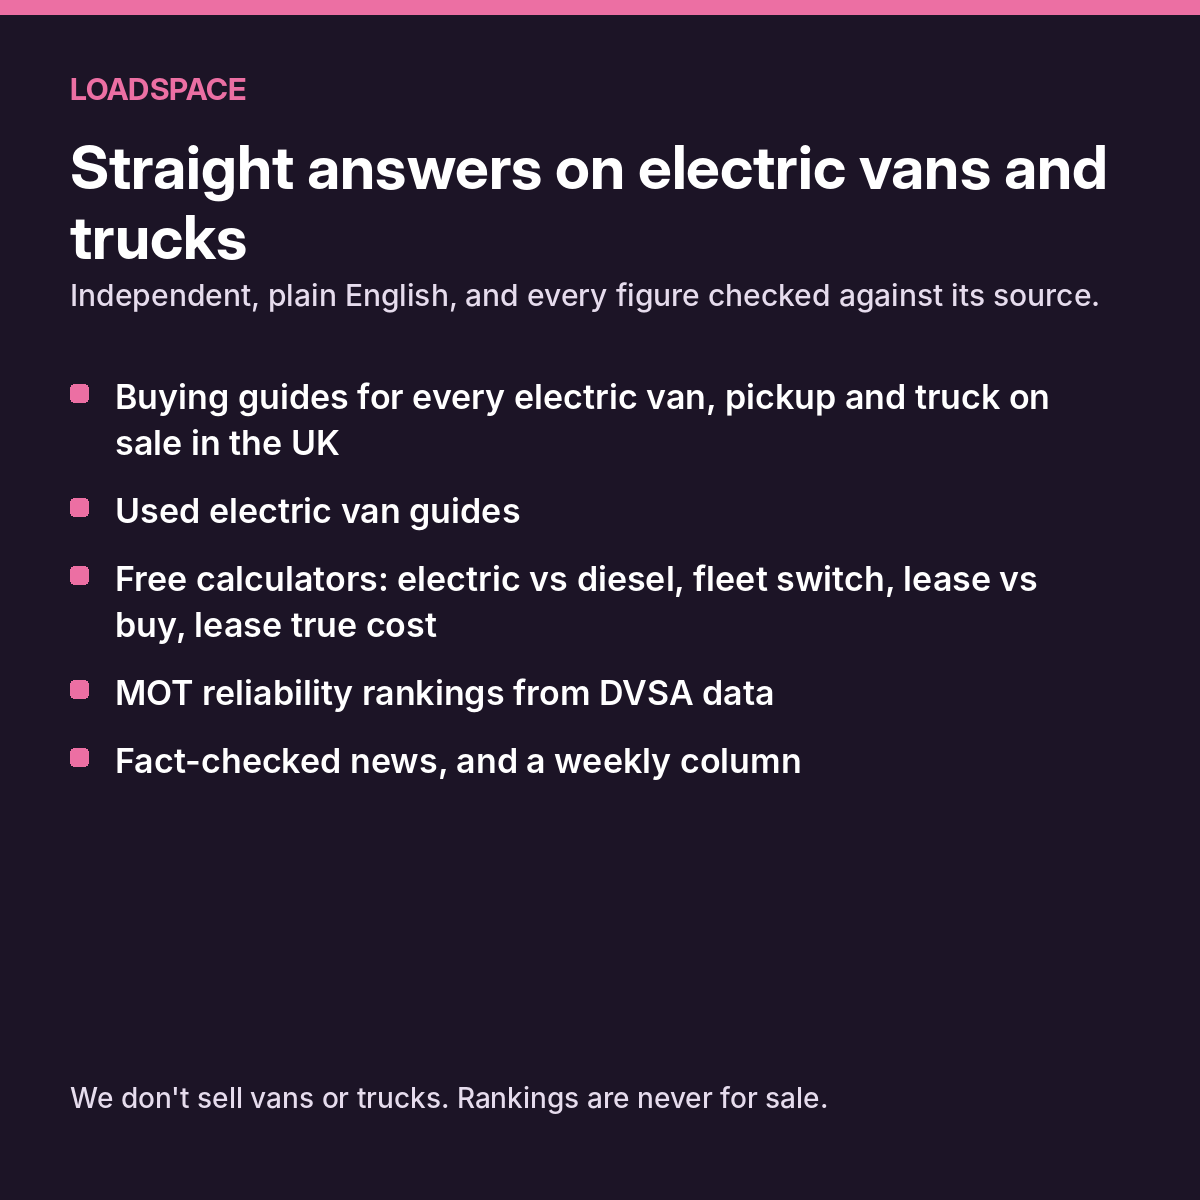
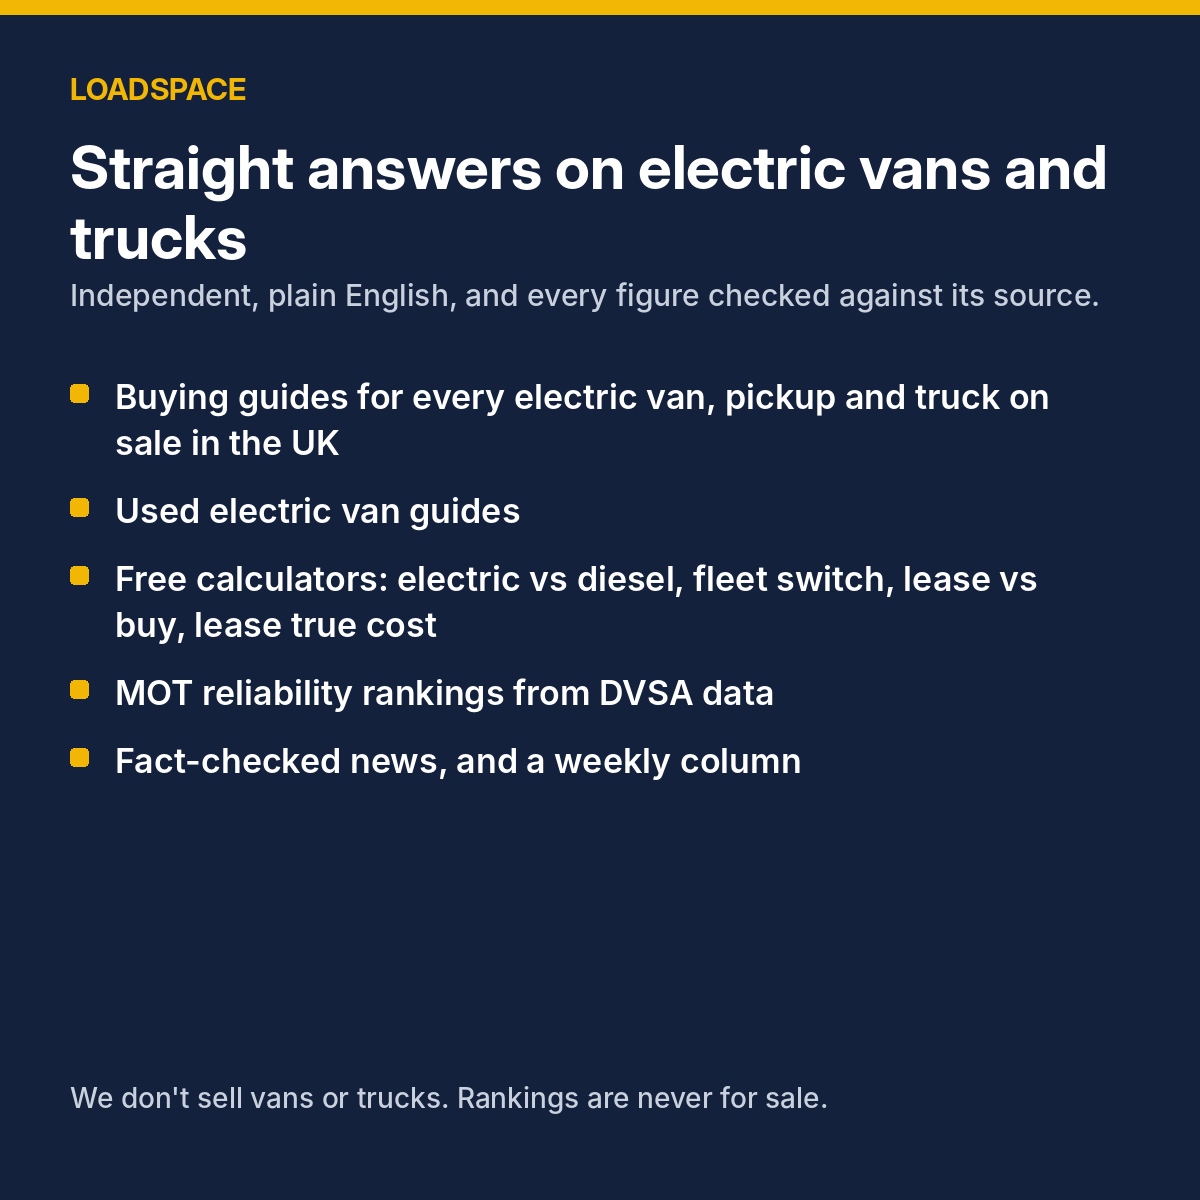
Back to navy and amber with soft grey page headers (light band, dark text)
Claude-Session: https://claude.ai/code/session_01Y739fKfVCrU5qPWWHgayZV

diff --git a/src/styles/global.css b/src/styles/global.css
@@ -1,44 +1,44 @@
 :root {
-  --ink: #1c1426;
-  --text: #241d2c;
-  --muted: #61566c;
+  --ink: #14213d;
+  --text: #1f2933;
+  --muted: #5b6573;
   --bg: #ffffff;
-  --surface: #f7f4f8;
-  --line: #e7e1ea;
-  --accent: #ec6fa3;
-  --accent-ink: #1c1426;
-  --accent-text: #b8326c;
-  --link: #b8326c;
+  --surface: #f5f6f8;
+  --line: #e1e4e8;
+  --accent: #f2b705;
+  --accent-ink: #14213d;
+  --accent-text: #946c00;
+  --link: #1a56b0;
   --good: #1f7a4d;
-  --warn-bg: #fff0f6;
-  --warn-line: #f5b8d2;
-  --hero: #1c1426;
-  --hero-glow: #3a2350;
-  --hero-text: #e6dced;
-  --hero-muted: #b9a9c9;
+  --warn-bg: #fff4d6;
+  --warn-line: #e8c55a;
+  --hero: #14213d;
+  --hero-glow: #1f3563;
+  --hero-text: #dfe3ea;
+  --hero-muted: #aab5c6;
   --radius: 10px;
   --max: 1200px;
   --display: 'Inter Display', system-ui, -apple-system, 'Segoe UI', Roboto, sans-serif;
-  --shadow: 0 1px 2px rgba(28,20,38,.06), 0 8px 24px rgba(28,20,38,.08);
+  --shadow: 0 1px 2px rgba(20,33,61,.06), 0 8px 24px rgba(20,33,61,.08);
   color-scheme: light;
 }
 
 @media (prefers-color-scheme: dark) {
   :root {
-    --ink: #f6f1f8;
-    --text: #e6dced;
-    --muted: #a99bb6;
-    --bg: #140f19;
-    --surface: #1f1726;
-    --line: #33283d;
-    --accent: #ec6fa3;
-    --accent-ink: #1c1426;
-    --accent-text: #f39cc2;
-    --link: #f39cc2;
+    --ink: #f4f6fa;
+    --text: #dfe3ea;
+    --muted: #9aa4b2;
+    --bg: #11151c;
+    --surface: #1a2029;
+    --line: #2b3340;
+    --accent: #f2b705;
+    --accent-ink: #14213d;
+    --accent-text: #f2b705;
+    --link: #7fb0ff;
     --good: #5fd39a;
-    --warn-bg: #2e1724;
-    --warn-line: #7a2f52;
-    --hero: #1c1426;
+    --warn-bg: #2e2712;
+    --warn-line: #7a6421;
+    --hero: #14213d;
     color-scheme: dark;
   }
 }
@@ -254,7 +254,7 @@ main:has(> .hero-split) { padding-top: 0; }
 .column-band h2 a { color: inherit; text-decoration: none; }
 .column-band h2 a:hover { text-decoration: underline; }
 .column-band p { font-size: 1.1rem; max-width: 50ch; }
-.column-photo img { display: block; width: 100%; border-radius: 14px; box-shadow: 0 16px 40px rgba(28,20,38,.25); transform: rotate(1.2deg); }
+.column-photo img { display: block; width: 100%; border-radius: 14px; box-shadow: 0 16px 40px rgba(20,33,61,.25); transform: rotate(1.2deg); }
 @media (max-width: 860px) { .column-grid { grid-template-columns: 1fr; } }
 
 /* Audience cards */
@@ -479,7 +479,7 @@ main:has(> .tool-hero) { padding-top: 0; }
 .tool-results .highlight .big { color: var(--accent); }
 .tool-results p, .tool-results strong { color: var(--hero-text); }
 .tool-results .result { background: none; border: 0; padding: 0; margin: 0; }
-.tool-results a { color: #f39cc2; }
+.tool-results a { color: #ffd65c; }
 .tool-bars { display: grid; gap: .55rem; margin: 1rem 0 .2rem; }
 .tool-bar { display: grid; grid-template-columns: 4.5rem 1fr; align-items: center; gap: .6rem; font-size: .8rem; color: var(--hero-muted); }
 .tool-bar span.track { height: 12px; border-radius: 6px; background: rgba(255,255,255,.08); overflow: hidden; }
@@ -510,3 +510,21 @@ main:has(> .tool-hero) { padding-top: 0; }
 .tool-group .tool-hint { margin: .8rem 0 0; line-height: 1.45; }
 .tool-results .tool-sub { margin-top: 1.4rem; padding-top: 1.1rem; border-top: 1px solid rgba(255,255,255,.12); }
 .tool-results .tool-rates { margin: 1rem 0 0; }
+
+/* Light page headers: soft grey band with dark text (homepage, reviews, van pages, tools) */
+.hero-split, .review-hero, .tool-hero { background: linear-gradient(180deg, var(--surface) 0%, color-mix(in srgb, var(--surface) 82%, var(--line)) 100%); color: var(--text); border-bottom: 1px solid var(--line); }
+.hero-split h1, .review-hero h1, .tool-hero h1 { color: var(--ink); }
+.hero-split .eyebrow, .review-hero .eyebrow, .tool-hero .eyebrow { color: var(--accent-text); }
+.hero-split .hero-copy > p, .review-summary, .review-price { color: var(--text); }
+.review-price strong, .medal-label strong { color: var(--ink); }
+.medal-label { color: var(--muted); }
+.review-hero .crumbs, .review-hero .crumbs a, .tool-hero .crumbs, .tool-hero .crumbs a { color: var(--muted); }
+.hero-facts { color: var(--muted); }
+.hero-facts strong { color: var(--ink); }
+.review-medal, .van-figs li { background: var(--bg); border-color: var(--line); }
+.van-figs strong { color: var(--ink); }
+.van-figs span { color: var(--muted); }
+.hero-split .btn.secondary, .btn.ghost-light { color: var(--ink); border-color: var(--ink); background: transparent; }
+.hero-photo figcaption, .review-photo figcaption, .review-photo figcaption a { color: var(--muted); }
+.hero-photo img, .review-photo .vimg img { box-shadow: 0 18px 40px rgba(20,33,61,.18); }
+.reg-form label { color: var(--muted); }

diff --git a/scripts/linkedin_images.py b/scripts/linkedin_images.py
@@ -18,7 +18,7 @@ FONTS = ROOT / 'scripts/fonts'
 REL = json.loads((ROOT / 'src/data/reliability.json').read_text())
 
 S = 1200
-NAVY, NAVY2, AMBER, WHITE, INK, MUTED, GRID, BG = '#1c1426', '#130d1a', '#ec6fa3', '#ffffff', '#1c1426', '#5b6573', '#e3e6eb', '#fcfcfb'
+NAVY, NAVY2, AMBER, WHITE, INK, MUTED, GRID, BG = '#14213d', '#0b1a33', '#f2b705', '#ffffff', '#14213d', '#5b6573', '#e3e6eb', '#fcfcfb'
 BLUE, GOLD = '#3b6bc6', '#c98a00'  # validated chart pair (dataviz validator: all checks pass, labels required)
 
 
@@ -60,7 +60,7 @@ def frame(title, subtitle=None, dark=False):
     if subtitle:
         y += 6
         for line in wrap(d, subtitle, MED(30), S - 140):
-            text(d, (70, y), line, MED(30), '#e6dced' if dark else MUTED)
+            text(d, (70, y), line, MED(30), '#c9d1de' if dark else MUTED)
             y += 40
     return im, d, y + 30
 
@@ -68,7 +68,7 @@ def frame(title, subtitle=None, dark=False):
 def footer(d, source, dark=False):
     y = S - 70
     for line in reversed(wrap(d, source, MED(22), S - 140)):
-        text(d, (70, y), line, MED(22), '#b9a9c9' if dark else MUTED)
+        text(d, (70, y), line, MED(22), '#9aa4b2' if dark else MUTED)
         y -= 30
 
 
@@ -114,7 +114,7 @@ def post1():
             text(d, (115, y), line, SEMI(34), WHITE)
             y += 46
         y += 22
-    text(d, (70, S - 120), 'We don\'t sell vans or trucks. Rankings are never for sale.', MED(28), '#e6dced')
+    text(d, (70, S - 120), 'We don\'t sell vans or trucks. Rankings are never for sale.', MED(28), '#c9d1de')
     return im
 
 
@@ -194,11 +194,11 @@ def post6():
 def post7():
     im, d, y = frame('"£279 a month" is almost never £279 a month', 'Example: 6 + 35 profile on a 36-month lease, plus a £300 admin fee', dark=True)
     y += 60
-    text(d, (70, y), 'Advertised', SEMI(34), '#e6dced')
+    text(d, (70, y), 'Advertised', SEMI(34), '#c9d1de')
     text(d, (70, y + 50), '£279', BOLD(140), WHITE)
-    text(d, (620, y), 'What you really pay', SEMI(34), '#e6dced')
+    text(d, (620, y), 'What you really pay', SEMI(34), '#c9d1de')
     text(d, (620, y + 50), '£326', BOLD(140), AMBER)
-    text(d, (620, y + 210), 'a month, spread over 36 months', MED(28), '#e6dced')
+    text(d, (620, y + 210), 'a month, spread over 36 months', MED(28), '#c9d1de')
     y += 330
     for line in ['41 payments of £279 for 36 months, plus the fee:', '£11,739 in total, about 17% more than the advert.']:
         text(d, (70, y), line, SEMI(34), WHITE)

diff --git a/scripts/news_images.py b/scripts/news_images.py
@@ -26,7 +26,7 @@ _extra = ROOT / 'src/data/photos.json'  # general photo library (scripts/add_pho
 if _extra.exists():
     PHOTOS.update(json.loads(_extra.read_text()))
 
-NAVY, NAVY2, AMBER, WHITE, MUTED = '#1c1426', '#130d1a', '#ec6fa3', '#ffffff', '#e6dced'
+NAVY, NAVY2, AMBER, WHITE, MUTED = '#14213d', '#0b1a33', '#f2b705', '#ffffff', '#c9d1de'
 W, H = 1600, 900
 
 
@@ -63,7 +63,7 @@ def fit_lines(draw, text, fnt, max_w, max_lines):
 
 
 def badge(im):
-    """Small pink OVERLOADED tag in the corner of a column photo."""
+    """Small amber OVERLOADED tag in the corner of a column photo."""
     d = ImageDraw.Draw(im)
     f = font('InterDisplay-Bold.otf', 40)
     w = d.textlength('OVERLOADED', font=f)
@@ -72,12 +72,12 @@ def badge(im):
 
 
 def column_card(fm):
-    """Branded image for the Overloaded column: pink, with the column name and headline."""
+    """Branded image for the Overloaded column: amber, with the column name and headline."""
     im = Image.new('RGB', (W, H), AMBER)
     d = ImageDraw.Draw(im)
-    d.polygon([(W * 0.66, 0), (W, 0), (W, H), (W * 0.5, H)], fill='#e05a93')
+    d.polygon([(W * 0.66, 0), (W, 0), (W, H), (W * 0.5, H)], fill='#e0a800')
     sil = [(1180, 690), (1180, 520), (1420, 520), (1500, 590), (1560, 590), (1560, 690)]
-    d.polygon(sil, fill='#d24d86')
+    d.polygon(sil, fill='#cf9b00')
     for cx in (1250, 1490):
         d.ellipse([cx - 38, 652, cx + 38, 728], fill=NAVY)
     d.rectangle([0, 0, 18, H], fill=NAVY)
@@ -96,7 +96,7 @@ def branded(fm):
     # Subtle diagonal band and van silhouette for texture.
     d.polygon([(W * 0.62, 0), (W, 0), (W, H), (W * 0.42, H)], fill=NAVY2)
     sil = [(1180, 690), (1180, 520), (1420, 520), (1500, 590), (1560, 590), (1560, 690)]
-    d.polygon(sil, fill='#2b1f38')
+    d.polygon(sil, fill='#1c2c4f')
     for cx in (1250, 1490):
         d.ellipse([cx - 38, 652, cx + 38, 728], fill=NAVY2)
     # Accent bar, brand and tag.
